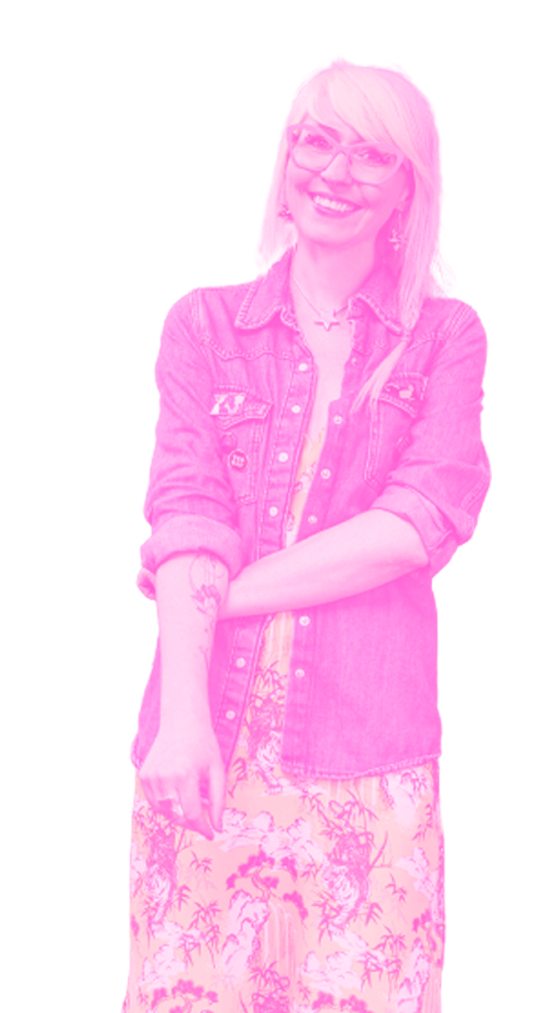
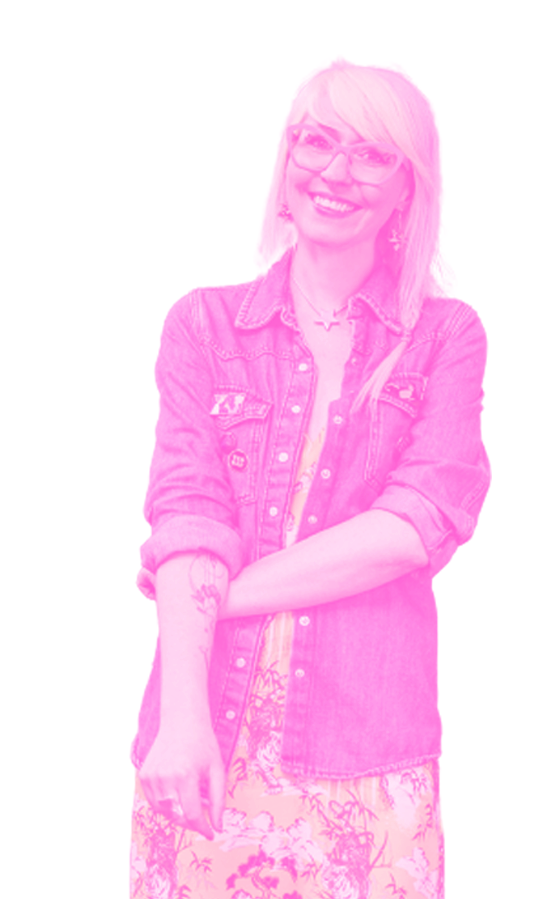
Corrected CSS issues in Header component

Changed region(s): [[0.2164, 0.0623, 0.8964, 1.0]]

diff --git a/goose-portfolio/src/Components/Header/Header.css b/goose-portfolio/src/Components/Header/Header.css
@@ -1,11 +1,19 @@
 .Header {
+    position: relative;
+    height: 100vh;
+    width: 100vh;
     display: flex;
-    justify-content: flex-start;
-    align-items: flex-start;
-    width: 100%;
-    height: 102vh;
-    margin-left: -1%;
-    margin-bottom: 0%;
+    flex-direction: column;
+    align-items: center;
+    justify-content: center;
+    
+}
+
+.HeaderTitle {
+    width: 150%;
+    height: 150%;
+    transform: translate(-15%, 45%);
+   
 }
 
 .ProfileImg {
@@ -13,22 +21,21 @@
     width: 550px;
     height: 1000px;
     border-radius: 0%;
-    margin-top: 3%;
+    transform: translate(110%, -40.3%);
+    
 }
 
 .Goose {
     position: absolute;
-    top: 790px;
-    left: 20;
+    transform: translate(-30%, 228%)
     
 }
 
 @media only screen and (max-width: 390px) {
     .Header {
-        width: 10%;
-        height: 50%;
-        margin-left: -1%;
-        margin-bottom: 0%;
+        width: 350px;
+        height: 300px;
+       
     }
     
     .ProfileImg {

diff --git a/goose-portfolio/src/Components/EggSection/EggSection.css b/goose-portfolio/src/Components/EggSection/EggSection.css
@@ -130,7 +130,7 @@
         margin-bottom: 40px;
         margin-top: 15px;
         color: #E9F4F8;
-        font-size: 20px;
+        font-size: 0.75em;
         font-weight: bold;
         font-family: 'Fira Code', monospace;
       }
